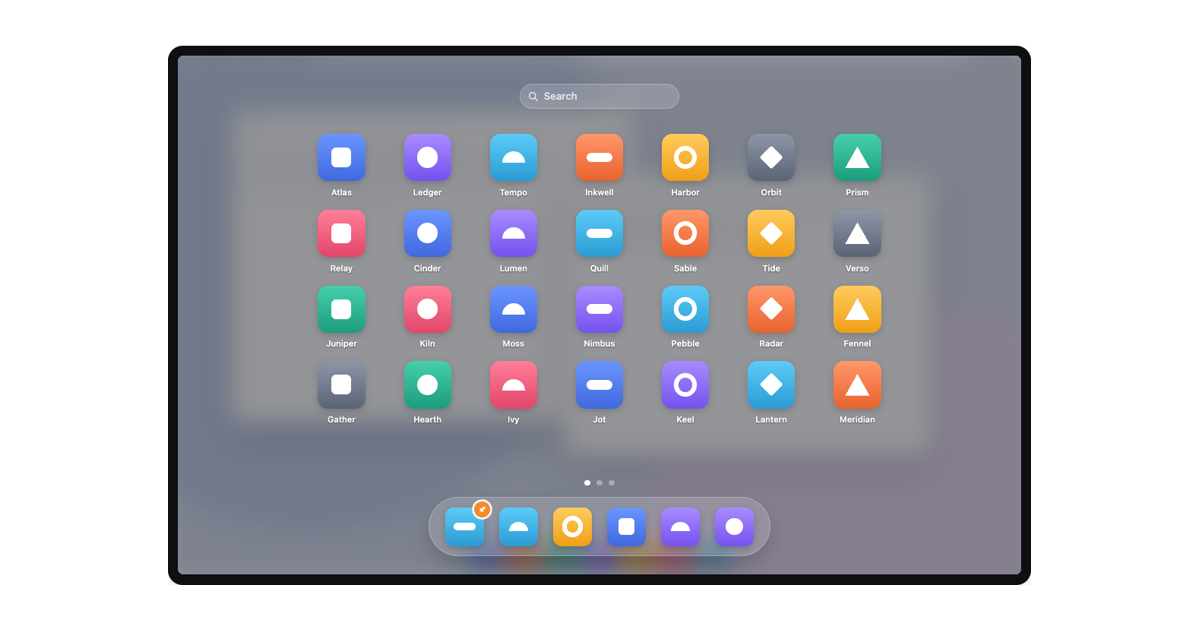
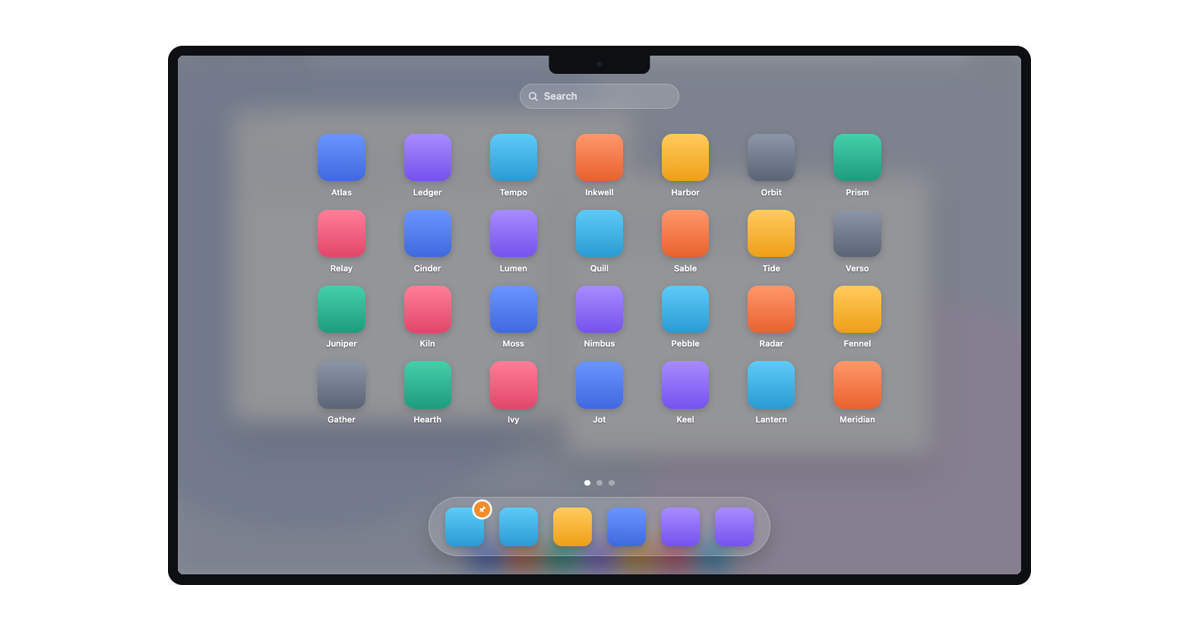
Hero: MacBook notch, 10% faster loop, centred × and delete pointer, plain app squares; add GoatCounter
Claude-Session: https://claude.ai/code/session_01RzSjXoXWrS3AFGCtVjFrwX

diff --git a/index.html b/index.html
@@ -31,11 +31,13 @@ a{color:var(--accent)}a:hover{color:#2F31A8}
 a:focus-visible{outline:2px solid var(--accent);outline-offset:3px;border-radius:6px}
 h1,h2,h3{text-wrap:balance}
 
-/* Hero loop (24s): open, page 2 and back, search, pin to shelf, jiggle and delete, close, desktop. */
+/* Hero loop (21.6s): open, page 2 and back, search, pin to shelf, jiggle and delete, close, desktop. */
 @property --wig{syntax:'<number>';inherits:true;initial-value:0}
 .mac{container-type:inline-size;position:relative;width:100%;aspect-ratio:16/10;border-radius:clamp(10px,1.6cqw,22px);background:#0E0F13;padding:clamp(6px,1.1cqw,14px);box-sizing:border-box;box-shadow:0 1px 0 rgba(0,0,0,.04),0 30px 80px -30px rgba(20,22,40,.35)}
 .screen{position:relative;width:100%;height:100%;overflow:hidden;border-radius:clamp(4px,.7cqw,9px);background:#DCE3F0}
-.tl{animation-duration:24s;animation-iteration-count:infinite;animation-fill-mode:both;animation-timing-function:ease-in-out}
+.notch{position:absolute;left:50%;top:0;z-index:10;width:12cqw;height:2.2cqw;transform:translateX(-50%);background:#0E0F13;border-radius:0 0 .9cqw .9cqw}
+.notch::after{content:"";position:absolute;left:50%;top:.75cqw;width:.6cqw;height:.6cqw;margin-left:-.3cqw;border-radius:50%;background:#1E2230;box-shadow:inset 0 0 0 .12cqw #151823}
+.tl{animation-duration:21.6s;animation-iteration-count:infinite;animation-fill-mode:both;animation-timing-function:ease-in-out}
 .desk{position:absolute;inset:0;filter:blur(1.4cqw) saturate(1.15) brightness(.78);transform:scale(1.04);animation-name:desk}
 .wall{position:absolute;inset:0;background:#D7DEEC}
 .wall i{position:absolute;border-radius:50%;display:block}
@@ -61,21 +63,22 @@ h1,h2,h3{text-wrap:balance}
 .pages{display:flex;width:200%;animation-name:swipe,gfade}
 .page{width:50%;display:flex;flex-direction:column;gap:1.5cqw}
 .row{display:flex;animation-name:rowin}
-.page .row:nth-child(2){animation-delay:.1s;position:relative;z-index:2}.page .row:nth-child(3){animation-delay:.2s}.page .row:nth-child(4){animation-delay:.3s}
+.page .row:nth-child(2){animation-delay:.09s;position:relative;z-index:2}.page .row:nth-child(3){animation-delay:.18s}.page .row:nth-child(4){animation-delay:.27s}
 .tile{width:10.2cqw;display:flex;flex-direction:column;align-items:center;gap:.7cqw;position:relative}
 .tile.q{z-index:3}
 .ico{width:5.6cqw;height:5.6cqw;border-radius:22%;display:flex;align-items:center;justify-content:center;box-shadow:0 .3cqw .8cqw rgba(0,0,0,.18);position:relative;flex:none}
-.ico>span{display:block;background:#FFFFFF}
 .page .ico{animation:jiggle .24s ease-in-out infinite alternate}
 .page .tile:nth-child(even) .ico{animation-delay:-.12s}
-.ico>.x{position:absolute;left:-.6cqw;top:-.6cqw;width:1.7cqw;height:1.7cqw;border-radius:50%;background:#E9E9EE;color:#2B2C33;font:600 1.2cqw/1.7cqw var(--body);text-align:center;opacity:var(--wig);transform:scale(calc(.5 + .5 * var(--wig)))}
+.ico>.x::before,.ico>.x::after{content:"";position:absolute;left:50%;top:50%;width:.8cqw;height:.17cqw;margin:-.085cqw 0 0 -.4cqw;border-radius:.1cqw;background:#2B2C33;transform:rotate(45deg)}
+.ico>.x::after{transform:rotate(-45deg)}
+.ico>.x{position:absolute;left:-.6cqw;top:-.6cqw;width:1.7cqw;height:1.7cqw;border-radius:50%;background:#E9E9EE;font-size:0;opacity:var(--wig);transform:scale(calc(.5 + .5 * var(--wig)))}
 .lbl{font:500 1cqw/1.2 var(--body);color:#FFFFFF;text-shadow:0 1px 2px rgba(0,0,0,.35);white-space:nowrap}
 .gone{animation-name:gone}
 .results{position:absolute;left:0;top:.8cqw;display:flex;opacity:0;animation-name:results}
 .results .sel{position:absolute;left:1.1cqw;top:-.8cqw;width:8cqw;height:9.2cqw;border-radius:1.6cqw;background:rgba(255,255,255,.2)}
 .cursor{position:absolute;left:62%;top:58%;width:1.6cqw;height:2.2cqw;opacity:0;z-index:4;transform-origin:0 0;filter:drop-shadow(0 .15cqw .3cqw rgba(0,0,0,.35))}
 .cursor.pin{animation-name:cur1}
-.cursor.del{left:2.4cqw;top:.1cqw;animation-name:cur2}
+.cursor.del{left:calc(50% - .15cqw);top:calc(50% - .15cqw);animation-name:cur2}
 .menu{position:absolute;left:68%;top:66%;z-index:3;width:15cqw;padding:.45cqw;box-sizing:border-box;border-radius:1cqw;background:rgba(44,45,52,.94);box-shadow:inset 0 0 0 1px rgba(255,255,255,.12),0 1.2cqw 3cqw rgba(0,0,0,.35);display:flex;flex-direction:column;opacity:0;transform-origin:0 0;animation-name:menu}
 .menu span{display:block;padding:.45cqw .9cqw;border-radius:.55cqw;font:500 1.1cqw/1.2 var(--body);color:#FFFFFF;text-align:left}
 .menu .hl{animation-name:hl}
@@ -94,13 +97,6 @@ h1,h2,h3{text-wrap:balance}
 
 .h0{background:linear-gradient(#6A95FF,#3F69DE)}.h1{background:linear-gradient(#FF976A,#E8622E)}.h2{background:linear-gradient(#45CFAA,#1D9C7E)}.h3{background:linear-gradient(#A88BFF,#7552EE)}
 .h4{background:linear-gradient(#FFCB5C,#EF9F17)}.h5{background:linear-gradient(#FF7E98,#E2466A)}.h6{background:linear-gradient(#5DCBF8,#2A9BD3)}.h7{background:linear-gradient(#8C96A6,#5A6475)}
-.ico>.g0{width:44%;height:44%;border-radius:50%}
-.ico>.g1{width:30%;height:30%;border-radius:50%;background:transparent;box-shadow:0 0 0 .55cqw #FFFFFF}
-.ico>.g2{width:42%;height:42%;border-radius:24%}
-.ico>.g3{width:56%;height:20%;border-radius:99px}
-.ico>.g4{width:52%;height:46%;clip-path:polygon(50% 0,100% 100%,0 100%)}
-.ico>.g5{width:48%;height:24%;border-radius:999px 999px 0 0}
-.ico>.g6{width:36%;height:36%;transform:rotate(45deg);border-radius:12%}
 
 .key{min-width:52px;height:48px;padding:0 12px;box-sizing:border-box;border-radius:10px;background:#FFFFFF;border:1px solid #D9DAE1;box-shadow:0 2px 0 #D9DAE1;display:flex;flex-direction:column;align-items:center;justify-content:center;gap:1px;font:500 18px/1 var(--body);color:var(--ink)}
 .key small{font-size:10px;color:var(--muted);letter-spacing:.02em}
@@ -169,7 +165,7 @@ h1,h2,h3{text-wrap:balance}
 
       <figure style="margin: 0; display: flex; flex-direction: column; align-items: center; gap: 28px">
         <div class="mac" role="img" aria-label="Tilexa on a Mac: the desktop blurs as the full-screen app grid opens. It swipes to the second page and back, searches for an app, pins an app to the shelf from its menu, jiggles the icons to delete one, then closes with Esc.">
-          <div class="screen">
+          <div class="screen"><span class="notch" aria-hidden="true"></span>
             <div class="desk tl" aria-hidden="true">
               <div class="wall">
                 <i style="width: 70%; height: 120%; left: -18%; top: -30%; background: #C4CFE6"></i>
@@ -184,7 +180,7 @@ h1,h2,h3{text-wrap:balance}
                 <div class="bar"><i></i><i></i><i></i></div>
                 <div class="ln" style="width: 70%"></div><div class="ln" style="width: 46%"></div><div class="ln" style="width: 58%"></div>
               </div>
-              <div class="dock"><div class="ico h0"><span class="g2"></span></div><div class="ico h1"><span class="g3"></span></div><div class="ico h2"><span class="g4"></span></div><div class="ico h3"><span class="g5"></span></div><div class="ico h4"><span class="g6"></span></div><div class="ico h5"><span class="g0"></span></div><div class="ico h6"><span class="g1"></span></div></div>
+              <div class="dock"><div class="ico h0"></div><div class="ico h1"></div><div class="ico h2"></div><div class="ico h3"></div><div class="ico h4"></div><div class="ico h5"></div><div class="ico h6"></div></div>
             </div>
             <div class="tint tl" aria-hidden="true"></div>
             <div class="overlay tl" aria-hidden="true">
@@ -194,11 +190,11 @@ h1,h2,h3{text-wrap:balance}
                 <span class="typed"><b class="c1 tl">q</b><b class="c2 tl">u</b><b class="c3 tl">i</b><i class="caret tl"></i></span>
               </div>
               <div class="view tl">
-                <div class="pages tl"><div class="page"><div class="row tl"><div class="tile"><div class="ico h0"><span class="g2"></span><span class="x">×</span></div><span class="lbl">Atlas</span></div><div class="tile"><div class="ico h3"><span class="g0"></span><span class="x">×</span></div><span class="lbl">Ledger</span></div><div class="tile"><div class="ico h6"><span class="g5"></span><span class="x">×</span></div><span class="lbl">Tempo</span></div><div class="tile"><div class="ico h1"><span class="g3"></span><span class="x">×</span></div><span class="lbl">Inkwell</span></div><div class="tile"><div class="ico h4"><span class="g1"></span><span class="x">×</span></div><span class="lbl">Harbor</span></div><div class="tile"><div class="ico h7"><span class="g6"></span><span class="x">×</span></div><span class="lbl">Orbit</span></div><div class="tile"><div class="ico h2"><span class="g4"></span><span class="x">×</span></div><span class="lbl">Prism</span></div></div><div class="row tl"><div class="tile"><div class="ico h5"><span class="g2"></span><span class="x">×</span></div><span class="lbl">Relay</span></div><div class="tile"><div class="ico h0"><span class="g0"></span><span class="x">×</span></div><span class="lbl">Cinder</span></div><div class="tile"><div class="ico h3"><span class="g5"></span><span class="x">×</span></div><span class="lbl">Lumen</span></div><div class="tile q"><div class="ico h6"><span class="g3"></span><span class="x">×</span><svg class="cursor tl pin" viewBox="0 0 16 22"><path d="M1.5 1.5v16.2l4.3-4 2.9 6.6 2.7-1.2-2.8-6.4h5.9z" fill="#111" stroke="#FFF" stroke-width="1.3" stroke-linejoin="round"></path></svg><div class="menu tl"><span>Hide</span><span class="hl tl">Add to Favorites</span><hr><span>Show in Finder</span></div></div><span class="lbl">Quill</span></div><div class="tile tl gone"><div class="ico h1"><span class="g1"></span><span class="x">×</span></div><span class="lbl">Sable</span><svg class="cursor tl del" viewBox="0 0 16 22"><path d="M1.5 1.5v16.2l4.3-4 2.9 6.6 2.7-1.2-2.8-6.4h5.9z" fill="#111" stroke="#FFF" stroke-width="1.3" stroke-linejoin="round"></path></svg></div><div class="tile"><div class="ico h4"><span class="g6"></span><span class="x">×</span></div><span class="lbl">Tide</span></div><div class="tile"><div class="ico h7"><span class="g4"></span><span class="x">×</span></div><span class="lbl">Verso</span></div></div><div class="row tl"><div class="tile"><div class="ico h2"><span class="g2"></span><span class="x">×</span></div><span class="lbl">Juniper</span></div><div class="tile"><div class="ico h5"><span class="g0"></span><span class="x">×</span></div><span class="lbl">Kiln</span></div><div class="tile"><div class="ico h0"><span class="g5"></span><span class="x">×</span></div><span class="lbl">Moss</span></div><div class="tile"><div class="ico h3"><span class="g3"></span><span class="x">×</span></div><span class="lbl">Nimbus</span></div><div class="tile"><div class="ico h6"><span class="g1"></span><span class="x">×</span></div><span class="lbl">Pebble</span></div><div class="tile"><div class="ico h1"><span class="g6"></span><span class="x">×</span></div><span class="lbl">Radar</span></div><div class="tile"><div class="ico h4"><span class="g4"></span><span class="x">×</span></div><span class="lbl">Fennel</span></div></div><div class="row tl"><div class="tile"><div class="ico h7"><span class="g2"></span><span class="x">×</span></div><span class="lbl">Gather</span></div><div class="tile"><div class="ico h2"><span class="g0"></span><span class="x">×</span></div><span class="lbl">Hearth</span></div><div class="tile"><div class="ico h5"><span class="g5"></span><span class="x">×</span></div><span class="lbl">Ivy</span></div><div class="tile"><div class="ico h0"><span class="g3"></span><span class="x">×</span></div><span class="lbl">Jot</span></div><div class="tile"><div class="ico h3"><span class="g1"></span><span class="x">×</span></div><span class="lbl">Keel</span></div><div class="tile"><div class="ico h6"><span class="g6"></span><span class="x">×</span></div><span class="lbl">Lantern</span></div><div class="tile"><div class="ico h1"><span class="g4"></span><span class="x">×</span></div><span class="lbl">Meridian</span></div></div></div><div class="page"><div class="row tl"><div class="tile"><div class="ico h4"><span class="g2"></span><span class="x">×</span></div><span class="lbl">Anchor</span></div><div class="tile"><div class="ico h7"><span class="g0"></span><span class="x">×</span></div><span class="lbl">Bramble</span></div><div class="tile"><div class="ico h2"><span class="g5"></span><span class="x">×</span></div><span class="lbl">Cobalt</span></div><div class="tile"><div class="ico h5"><span class="g3"></span><span class="x">×</span></div><span class="lbl">Drift</span></div><div class="tile"><div class="ico h0"><span class="g1"></span><span class="x">×</span></div><span class="lbl">Ember</span></div><div class="tile"><div class="ico h3"><span class="g6"></span><span class="x">×</span></div><span class="lbl">Flint</span></div><div class="tile"><div class="ico h6"><span class="g4"></span><span class="x">×</span></div><span class="lbl">Grove</span></div></div><div class="row tl"><div class="tile"><div class="ico h1"><span class="g2"></span><span class="x">×</span></div><span class="lbl">Halo</span></div><div class="tile"><div class="ico h4"><span class="g0"></span><span class="x">×</span></div><span class="lbl">Indigo</span></div><div class="tile"><div class="ico h7"><span class="g5"></span><span class="x">×</span></div><span class="lbl">Jasper</span></div><div class="tile"><div class="ico h2"><span class="g3"></span><span class="x">×</span></div><span class="lbl">Kite</span></div><div class="tile"><div class="ico h5"><span class="g1"></span><span class="x">×</span></div><span class="lbl">Lark</span></div><div class="tile"><div class="ico h0"><span class="g6"></span><span class="x">×</span></div><span class="lbl">Maple</span></div><div class="tile"><div class="ico h3"><span class="g4"></span><span class="x">×</span></div><span class="lbl">North</span></div></div><div class="row tl"><div class="tile"><div class="ico h6"><span class="g2"></span><span class="x">×</span></div><span class="lbl">Opal</span></div><div class="tile"><div class="ico h1"><span class="g0"></span><span class="x">×</span></div><span class="lbl">Pine</span></div><div class="tile"><div class="ico h4"><span class="g5"></span><span class="x">×</span></div><span class="lbl">Quince</span></div><div class="tile"><div class="ico h7"><span class="g3"></span><span class="x">×</span></div><span class="lbl">Reed</span></div><div class="tile"><div class="ico h2"><span class="g1"></span><span class="x">×</span></div><span class="lbl">Slate</span></div><div class="tile"><div class="ico h5"><span class="g6"></span><span class="x">×</span></div><span class="lbl">Thistle</span></div><div class="tile"><div class="ico h0"><span class="g4"></span><span class="x">×</span></div><span class="lbl">Umber</span></div></div><div class="row tl"><div class="tile"><div class="ico h3"><span class="g2"></span><span class="x">×</span></div><span class="lbl">Vale</span></div><div class="tile"><div class="ico h6"><span class="g0"></span><span class="x">×</span></div><span class="lbl">Willow</span></div><div class="tile"><div class="ico h1"><span class="g5"></span><span class="x">×</span></div><span class="lbl">Yarrow</span></div><div class="tile"><div class="ico h4"><span class="g3"></span><span class="x">×</span></div><span class="lbl">Zephyr</span></div><div class="tile"><div class="ico h7"><span class="g1"></span><span class="x">×</span></div><span class="lbl">Alder</span></div><div class="tile"><div class="ico h2"><span class="g6"></span><span class="x">×</span></div><span class="lbl">Birch</span></div><div class="tile"><div class="ico h5"><span class="g4"></span><span class="x">×</span></div><span class="lbl">Cove</span></div></div></div></div>
-                <div class="results tl"><span class="sel"></span><div class="tile"><div class="ico h6"><span class="g3"></span></div><span class="lbl">Quill</span></div><div class="tile"><div class="ico h4"><span class="g5"></span></div><span class="lbl">Quince</span></div></div>
+                <div class="pages tl"><div class="page"><div class="row tl"><div class="tile"><div class="ico h0"><span class="x">×</span></div><span class="lbl">Atlas</span></div><div class="tile"><div class="ico h3"><span class="x">×</span></div><span class="lbl">Ledger</span></div><div class="tile"><div class="ico h6"><span class="x">×</span></div><span class="lbl">Tempo</span></div><div class="tile"><div class="ico h1"><span class="x">×</span></div><span class="lbl">Inkwell</span></div><div class="tile"><div class="ico h4"><span class="x">×</span></div><span class="lbl">Harbor</span></div><div class="tile"><div class="ico h7"><span class="x">×</span></div><span class="lbl">Orbit</span></div><div class="tile"><div class="ico h2"><span class="x">×</span></div><span class="lbl">Prism</span></div></div><div class="row tl"><div class="tile"><div class="ico h5"><span class="x">×</span></div><span class="lbl">Relay</span></div><div class="tile"><div class="ico h0"><span class="x">×</span></div><span class="lbl">Cinder</span></div><div class="tile"><div class="ico h3"><span class="x">×</span></div><span class="lbl">Lumen</span></div><div class="tile q"><div class="ico h6"><span class="x">×</span><svg class="cursor tl pin" viewBox="0 0 16 22"><path d="M1.5 1.5v16.2l4.3-4 2.9 6.6 2.7-1.2-2.8-6.4h5.9z" fill="#111" stroke="#FFF" stroke-width="1.3" stroke-linejoin="round"></path></svg><div class="menu tl"><span>Hide</span><span class="hl tl">Add to Favorites</span><hr><span>Show in Finder</span></div></div><span class="lbl">Quill</span></div><div class="tile tl gone"><div class="ico h1"><span class="x">×<svg class="cursor tl del" viewBox="0 0 16 22"><path d="M1.5 1.5v16.2l4.3-4 2.9 6.6 2.7-1.2-2.8-6.4h5.9z" fill="#111" stroke="#FFF" stroke-width="1.3" stroke-linejoin="round"></path></svg></span></div><span class="lbl">Sable</span></div><div class="tile"><div class="ico h4"><span class="x">×</span></div><span class="lbl">Tide</span></div><div class="tile"><div class="ico h7"><span class="x">×</span></div><span class="lbl">Verso</span></div></div><div class="row tl"><div class="tile"><div class="ico h2"><span class="x">×</span></div><span class="lbl">Juniper</span></div><div class="tile"><div class="ico h5"><span class="x">×</span></div><span class="lbl">Kiln</span></div><div class="tile"><div class="ico h0"><span class="x">×</span></div><span class="lbl">Moss</span></div><div class="tile"><div class="ico h3"><span class="x">×</span></div><span class="lbl">Nimbus</span></div><div class="tile"><div class="ico h6"><span class="x">×</span></div><span class="lbl">Pebble</span></div><div class="tile"><div class="ico h1"><span class="x">×</span></div><span class="lbl">Radar</span></div><div class="tile"><div class="ico h4"><span class="x">×</span></div><span class="lbl">Fennel</span></div></div><div class="row tl"><div class="tile"><div class="ico h7"><span class="x">×</span></div><span class="lbl">Gather</span></div><div class="tile"><div class="ico h2"><span class="x">×</span></div><span class="lbl">Hearth</span></div><div class="tile"><div class="ico h5"><span class="x">×</span></div><span class="lbl">Ivy</span></div><div class="tile"><div class="ico h0"><span class="x">×</span></div><span class="lbl">Jot</span></div><div class="tile"><div class="ico h3"><span class="x">×</span></div><span class="lbl">Keel</span></div><div class="tile"><div class="ico h6"><span class="x">×</span></div><span class="lbl">Lantern</span></div><div class="tile"><div class="ico h1"><span class="x">×</span></div><span class="lbl">Meridian</span></div></div></div><div class="page"><div class="row tl"><div class="tile"><div class="ico h4"><span class="x">×</span></div><span class="lbl">Anchor</span></div><div class="tile"><div class="ico h7"><span class="x">×</span></div><span class="lbl">Bramble</span></div><div class="tile"><div class="ico h2"><span class="x">×</span></div><span class="lbl">Cobalt</span></div><div class="tile"><div class="ico h5"><span class="x">×</span></div><span class="lbl">Drift</span></div><div class="tile"><div class="ico h0"><span class="x">×</span></div><span class="lbl">Ember</span></div><div class="tile"><div class="ico h3"><span class="x">×</span></div><span class="lbl">Flint</span></div><div class="tile"><div class="ico h6"><span class="x">×</span></div><span class="lbl">Grove</span></div></div><div class="row tl"><div class="tile"><div class="ico h1"><span class="x">×</span></div><span class="lbl">Halo</span></div><div class="tile"><div class="ico h4"><span class="x">×</span></div><span class="lbl">Indigo</span></div><div class="tile"><div class="ico h7"><span class="x">×</span></div><span class="lbl">Jasper</span></div><div class="tile"><div class="ico h2"><span class="x">×</span></div><span class="lbl">Kite</span></div><div class="tile"><div class="ico h5"><span class="x">×</span></div><span class="lbl">Lark</span></div><div class="tile"><div class="ico h0"><span class="x">×</span></div><span class="lbl">Maple</span></div><div class="tile"><div class="ico h3"><span class="x">×</span></div><span class="lbl">North</span></div></div><div class="row tl"><div class="tile"><div class="ico h6"><span class="x">×</span></div><span class="lbl">Opal</span></div><div class="tile"><div class="ico h1"><span class="x">×</span></div><span class="lbl">Pine</span></div><div class="tile"><div class="ico h4"><span class="x">×</span></div><span class="lbl">Quince</span></div><div class="tile"><div class="ico h7"><span class="x">×</span></div><span class="lbl">Reed</span></div><div class="tile"><div class="ico h2"><span class="x">×</span></div><span class="lbl">Slate</span></div><div class="tile"><div class="ico h5"><span class="x">×</span></div><span class="lbl">Thistle</span></div><div class="tile"><div class="ico h0"><span class="x">×</span></div><span class="lbl">Umber</span></div></div><div class="row tl"><div class="tile"><div class="ico h3"><span class="x">×</span></div><span class="lbl">Vale</span></div><div class="tile"><div class="ico h6"><span class="x">×</span></div><span class="lbl">Willow</span></div><div class="tile"><div class="ico h1"><span class="x">×</span></div><span class="lbl">Yarrow</span></div><div class="tile"><div class="ico h4"><span class="x">×</span></div><span class="lbl">Zephyr</span></div><div class="tile"><div class="ico h7"><span class="x">×</span></div><span class="lbl">Alder</span></div><div class="tile"><div class="ico h2"><span class="x">×</span></div><span class="lbl">Birch</span></div><div class="tile"><div class="ico h5"><span class="x">×</span></div><span class="lbl">Cove</span></div></div></div></div>
+                <div class="results tl"><span class="sel"></span><div class="tile"><div class="ico h6"></div><span class="lbl">Quill</span></div><div class="tile"><div class="ico h4"></div><span class="lbl">Quince</span></div></div>
               </div>
               <div class="dots"><i class="tl"></i><i class="tl"></i><i></i></div>
-              <div class="shelf"><div class="slot tl"><div class="ico tl h6"><span class="g3"></span><span class="pin tl"><svg viewBox="0 0 16 16" fill="#FFFFFF"><path d="M10.6 1.5l3.9 3.9-1.4 1.4-.7-.7-2.4 2.4.4 3.2-1.4 1.4-2.5-2.5-3.3 3.3-.9-.9 3.3-3.3-2.5-2.5 1.4-1.4 3.2.4 2.4-2.4-.7-.7z"></path></svg></span></div></div><div class="ico tl h6"><span class="g5"></span></div><div class="ico tl h4"><span class="g1"></span></div><div class="ico tl h0"><span class="g2"></span></div><div class="ico tl h3"><span class="g5"></span></div><div class="ico tl h3"><span class="g0"></span></div></div>
+              <div class="shelf"><div class="slot tl"><div class="ico tl h6"><span class="pin tl"><svg viewBox="0 0 16 16" fill="#FFFFFF"><path d="M10.6 1.5l3.9 3.9-1.4 1.4-.7-.7-2.4 2.4.4 3.2-1.4 1.4-2.5-2.5-3.3 3.3-.9-.9 3.3-3.3-2.5-2.5 1.4-1.4 3.2.4 2.4-2.4-.7-.7z"></path></svg></span></div></div><div class="ico tl h6"></div><div class="ico tl h4"></div><div class="ico tl h0"></div><div class="ico tl h3"></div><div class="ico tl h3"></div></div>
             </div>
           </div>
         </div>
@@ -246,7 +242,7 @@ h1,h2,h3{text-wrap:balance}
       </div>
       <div class="mac" aria-hidden="true" style="flex: 1.4 1 480px; aspect-ratio: 16/7; padding: 0; background: #2A2D3A; box-shadow: none">
         <div class="screen" style="background: #3A4059; display: flex; align-items: center; justify-content: center">
-          <div class="shelf" style="margin: 0; gap: 3.4cqw; padding: 2.4cqw 4cqw; border-radius: 9cqw"><div class="ico h6" style="width: 9cqw; height: 9cqw"><span class="g3"></span><span class="pin" style="width: 3.6cqw; height: 3.6cqw; right: -1.3cqw; top: -1.3cqw"><svg viewBox="0 0 16 16" fill="#FFFFFF" style="width: 1.9cqw; height: 1.9cqw"><path d="M10.6 1.5l3.9 3.9-1.4 1.4-.7-.7-2.4 2.4.4 3.2-1.4 1.4-2.5-2.5-3.3 3.3-.9-.9 3.3-3.3-2.5-2.5 1.4-1.4 3.2.4 2.4-2.4-.7-.7z"></path></svg></span></div><div class="ico h6" style="width: 9cqw; height: 9cqw"><span class="g5"></span></div><div class="ico h4" style="width: 9cqw; height: 9cqw"><span class="g1"></span></div><div class="ico h0" style="width: 9cqw; height: 9cqw"><span class="g2"></span></div><div class="ico h3" style="width: 9cqw; height: 9cqw"><span class="g5"></span></div><div class="ico h3" style="width: 9cqw; height: 9cqw"><span class="g0"></span></div></div>
+          <div class="shelf" style="margin: 0; gap: 3.4cqw; padding: 2.4cqw 4cqw; border-radius: 9cqw"><div class="ico h6" style="width: 9cqw; height: 9cqw"><span class="pin" style="width: 3.6cqw; height: 3.6cqw; right: -1.3cqw; top: -1.3cqw"><svg viewBox="0 0 16 16" fill="#FFFFFF" style="width: 1.9cqw; height: 1.9cqw"><path d="M10.6 1.5l3.9 3.9-1.4 1.4-.7-.7-2.4 2.4.4 3.2-1.4 1.4-2.5-2.5-3.3 3.3-.9-.9 3.3-3.3-2.5-2.5 1.4-1.4 3.2.4 2.4-2.4-.7-.7z"></path></svg></span></div><div class="ico h6" style="width: 9cqw; height: 9cqw"></div><div class="ico h4" style="width: 9cqw; height: 9cqw"></div><div class="ico h0" style="width: 9cqw; height: 9cqw"></div><div class="ico h3" style="width: 9cqw; height: 9cqw"></div><div class="ico h3" style="width: 9cqw; height: 9cqw"></div></div>
         </div>
       </div>
     </section>
@@ -312,5 +308,6 @@ h1,h2,h3{text-wrap:balance}
     <p style="margin: 0; font-size: 12px; line-height: 1.5; color: #6B6E78">Apple, the Apple logo, Mac, macOS and Launchpad are trademarks of Apple Inc., registered in the U.S. and other countries. App Store and Mac App Store are service marks of Apple Inc.</p>
   </footer>
 </div>
+<script data-goatcounter="https://tilexa.goatcounter.com/count" async src="//gc.zgo.at/count.js"></script>
 </body>
 </html>

diff --git a/privacy/index.html b/privacy/index.html
@@ -49,7 +49,7 @@ h1,h2{text-wrap:balance}
   <main style="max-width: 680px; width: 100%; box-sizing: border-box; margin: 0 auto; padding: 88px 32px 120px; display: flex; flex-direction: column; gap: 40px; flex: 1">
     <div style="display: flex; flex-direction: column; gap: 14px">
       <h1 style="margin: 0; font-family: var(--display); font-size: clamp(40px, 5.4vw, 64px); line-height: 1; letter-spacing: -0.04em; font-weight: 600">Privacy Policy</h1>
-      <p style="margin: 0; font-size: 15px; color: var(--muted)">Last updated October 2026</p>
+      <p style="margin: 0; font-size: 15px; color: var(--muted)">Last updated November 2026</p>
     </div>
     <p style="margin: 0; font-size: 22px; line-height: 1.45">Tilexa does not collect, store or share any personal data.</p>
     <div style="display: flex; flex-direction: column; font-size: 17px; line-height: 1.65; color: var(--muted)">
@@ -67,7 +67,7 @@ h1,h2{text-wrap:balance}
       </section>
       <section style="display: flex; flex-direction: column; gap: 6px; padding: 24px 0; border-top: 1px solid var(--rule)">
         <h2 style="margin: 0; font-size: 18px; font-weight: 600; color: var(--ink)">This website</h2>
-        <p style="margin: 0">tilexa.app is a static page with no cookies, analytics or third-party scripts. Our host, GitHub Pages, may log your IP address for security.</p>
+        <p style="margin: 0">We count visits to tilexa.app with <a href="https://www.goatcounter.com">GoatCounter</a>. It records the page you viewed, the site that sent you, your browser, screen size and country. It sets no cookies, doesn’t store your IP address and can’t identify you. Our host, GitHub Pages, may log IP addresses for security.</p>
       </section>
       <section style="display: flex; flex-direction: column; gap: 6px; padding: 24px 0; border-top: 1px solid var(--rule); border-bottom: 1px solid var(--rule)">
         <h2 style="margin: 0; font-size: 18px; font-weight: 600; color: var(--ink)">Questions</h2>
